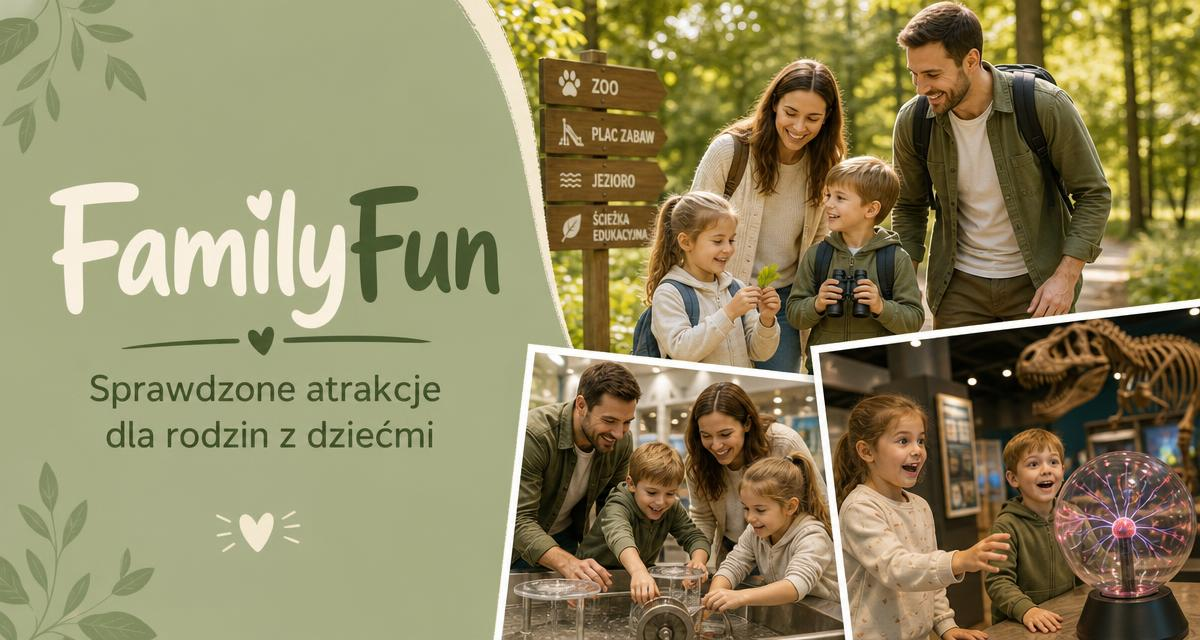
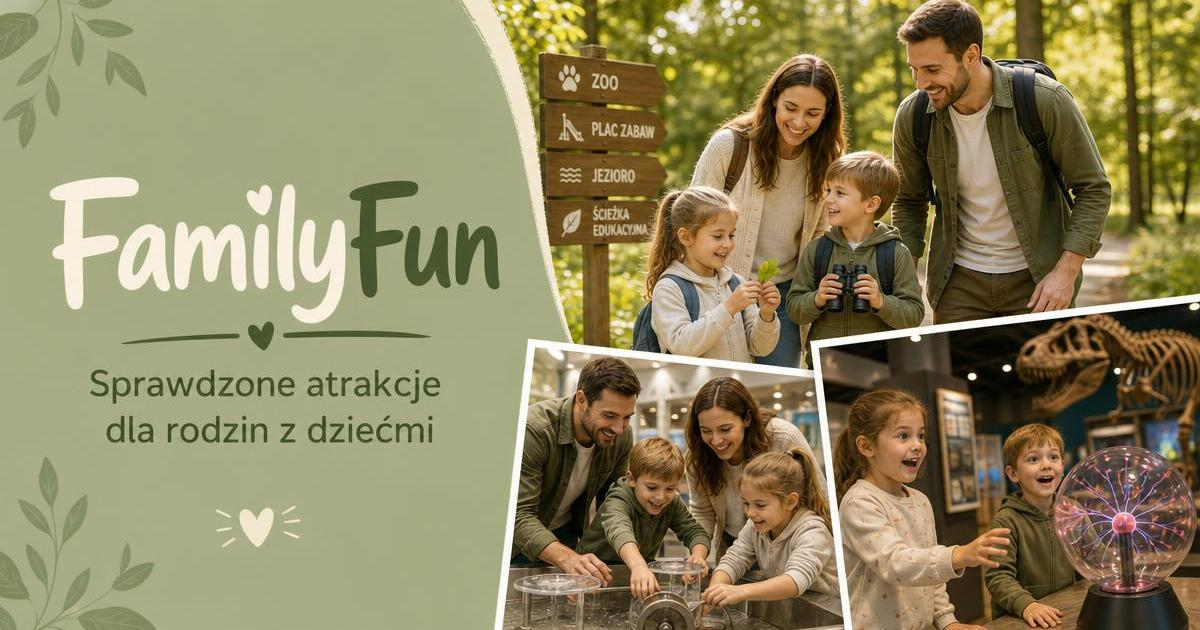
K-23: og-image 1200x640 -> 1200x630 + /.well-known/security.txt
Baner sitewide mial 1200x640, a podglady linkow (FB/LinkedIn/Twitter)
wymagaja 1200x630. Kadr -5 px z gory i -5 px z dolu (bez skalowania,
bez znieksztalcenia); re-encode tymi samymi tabelami kwantyzacji
(4:2:0, baseline) -> 141 kB na 115 kB. Meta og:image:height poprawione
w index.html i SEOHead (fallback), plus komentarz w CategoryPage.

Nowy public/.well-known/security.txt (RFC 9116): Contact kontakt@,
Expires 2027-09-04, Preferred-Languages pl, en. Zweryfikowane buildem:
plik laduje w dist/.well-known/security.txt.

diff --git a/src/components/SEOHead.tsx b/src/components/SEOHead.tsx
@@ -64,7 +64,7 @@ const SEOHead = ({
       {/* Wymiary podajemy tylko wtedy, gdy je naprawdę znamy (baner sitewide
           albo jawnie przekazane) — fałszywe 1200x630 psuło podglądy. */}
       {isFallbackImage && <meta property="og:image:width" content="1200" />}
-      {isFallbackImage && <meta property="og:image:height" content="640" />}
+      {isFallbackImage && <meta property="og:image:height" content="630" />}
       {!isFallbackImage && imageWidth && <meta property="og:image:width" content={String(imageWidth)} />}
       {!isFallbackImage && imageHeight && <meta property="og:image:height" content={String(imageHeight)} />}
       {!isFallbackImage && !imageWidth && /\.webp(\?|$)/i.test(ogImage) && (

diff --git a/index.html b/index.html
@@ -36,7 +36,7 @@
 
     <meta data-rh="true" property="og:image" content="https://familyfun.pl/og-image-1200x630.jpg" />
     <meta data-rh="true" property="og:image:width" content="1200" />
-    <meta data-rh="true" property="og:image:height" content="640" />
+    <meta data-rh="true" property="og:image:height" content="630" />
     <meta data-rh="true" property="og:image:alt" content="FamilyFun – sprawdzone atrakcje dla rodzin z dziećmi" />
     <meta data-rh="true" name="twitter:card" content="summary_large_image" />
     <meta data-rh="true" name="twitter:image" content="https://familyfun.pl/og-image-1200x630.jpg" />

diff --git a/src/pages/CategoryPage.tsx b/src/pages/CategoryPage.tsx
@@ -482,7 +482,7 @@ const CategoryPage = () => {
   return (
     <PageTransition>
       {/* Bez `image`: zdjęcie pierwszej atrakcji bywa niższe niż 630 px i
-          Facebook przycinał podgląd (BC-E-05). Baner sitewide ma 1200x640. */}
+          Facebook przycinał podgląd (BC-E-05). Baner sitewide ma 1200x630. */}
       <SEOHead
         title={pageParam > 1 ? `${pagedTitle} — strona ${pageParam}` : resolvedTitle.replace(" | FamilyFun", "")}
         description={dynamicMetaDescription}
